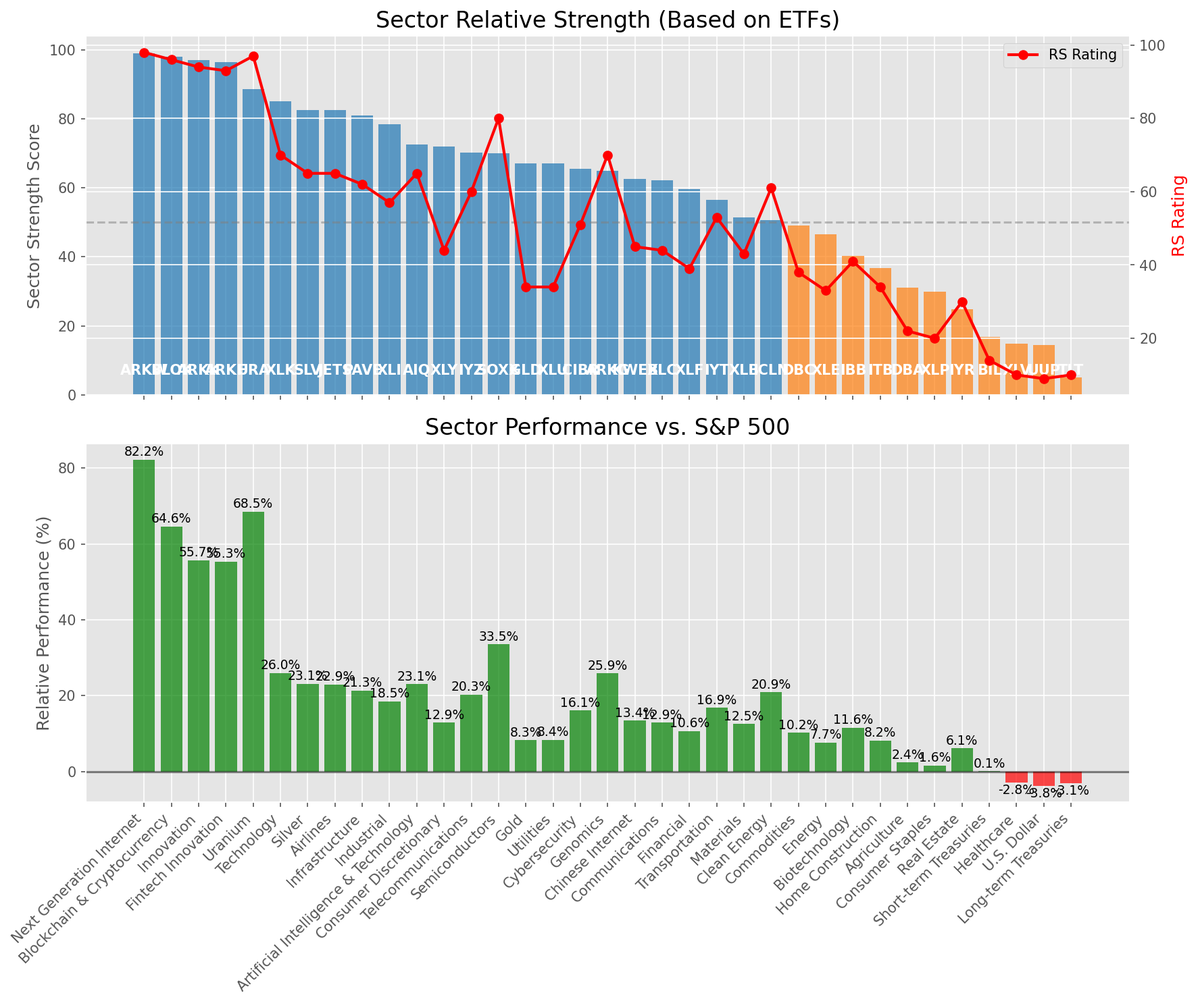
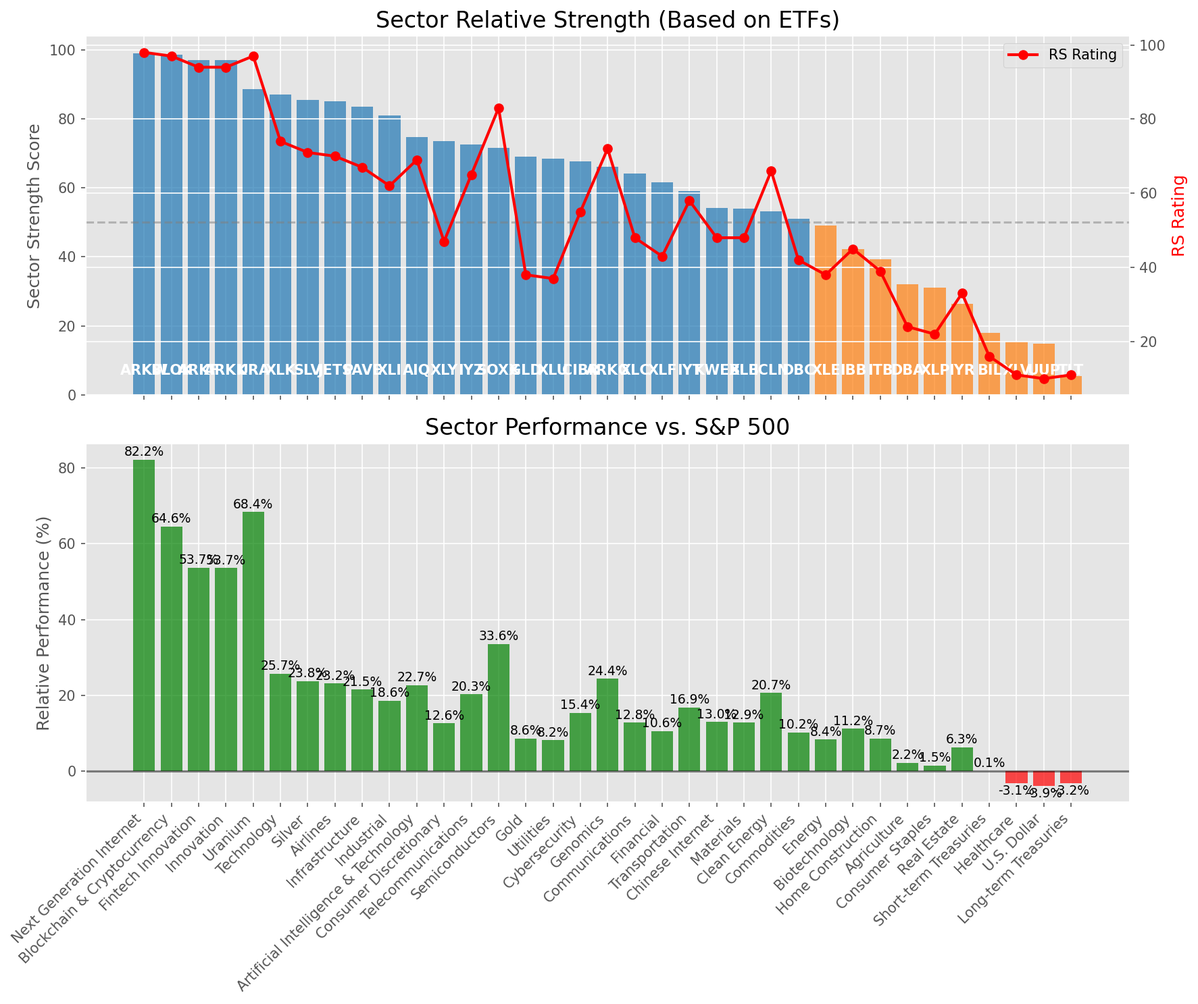
Add market report for 2025-07-11

diff --git a/oneil_relative_strength_report_2025-07-11.md b/oneil_relative_strength_report_2025-07-11.md
@@ -13,7 +13,7 @@
 | **Historical Mean** | 9.45 |
 | **Standard Deviation** | 0.52 |
 | **Z-Score (StdDev from Mean)** | 1.62 |
-| **Total Market Cap** | $307.15 trillion |
+| **Total Market Cap** | $307.03 trillion |
 | **GDP** | $29.96 trillion |
 
 ## **Market Insights**
@@ -50,40 +50,40 @@ Based on William O'Neil's Relative Strength Methodology
 | ETF | Strength | RS Rating | Performance | Above Key MAs | Trend | Sector |
 |-----|----------|-----------|-------------|--------------|-------|--------|
 | [ARKW](https://www.tradingview.com/chart/?symbol=ARKW) | 99.0 | 98.0 | 82.19% | 10d ✓, 50d ✓, 200d ✓ | ↗ | Next Generation Internet |
-| [BLOK](https://www.tradingview.com/chart/?symbol=BLOK) | 98.0 | 96.0 | 64.59% | 10d ✓, 50d ✓, 200d ✓ | ↗ | Blockchain & Cryptocurrency |
-| [ARKK](https://www.tradingview.com/chart/?symbol=ARKK) | 97.0 | 94.0 | 55.70% | 10d ✓, 50d ✓, 200d ✓ | ↗ | Innovation |
-| [ARKF](https://www.tradingview.com/chart/?symbol=ARKF) | 96.5 | 93.0 | 55.33% | 10d ✓, 50d ✓, 200d ✓ | ↗ | Fintech Innovation |
-| [URA](https://www.tradingview.com/chart/?symbol=URA) | 88.6 | 97.0 | 68.47% | 10d ✗, 50d ✓, 200d ✓ | ↗ | Uranium |
-| [XLK](https://www.tradingview.com/chart/?symbol=XLK) | 85.0 | 70.0 | 25.97% | 10d ✓, 50d ✓, 200d ✓ | ↗ | Technology |
-| [SLV](https://www.tradingview.com/chart/?symbol=SLV) | 82.5 | 65.0 | 23.09% | 10d ✓, 50d ✓, 200d ✓ | ↗ | Silver |
-| [JETS](https://www.tradingview.com/chart/?symbol=JETS) | 82.5 | 65.0 | 22.94% | 10d ✓, 50d ✓, 200d ✓ | ↗ | Airlines |
-| [PAVE](https://www.tradingview.com/chart/?symbol=PAVE) | 81.0 | 62.0 | 21.32% | 10d ✓, 50d ✓, 200d ✓ | ↗ | Infrastructure |
-| [XLI](https://www.tradingview.com/chart/?symbol=XLI) | 78.5 | 57.0 | 18.49% | 10d ✓, 50d ✓, 200d ✓ | ↗ | Industrial |
-| [AIQ](https://www.tradingview.com/chart/?symbol=AIQ) | 72.6 | 65.0 | 23.08% | 10d ✗, 50d ✓, 200d ✓ | ↗ | Artificial Intelligence & Technology |
-| [XLY](https://www.tradingview.com/chart/?symbol=XLY) | 72.0 | 44.0 | 12.87% | 10d ✓, 50d ✓, 200d ✓ | ↗ | Consumer Discretionary |
-| [IYZ](https://www.tradingview.com/chart/?symbol=IYZ) | 70.1 | 60.0 | 20.26% | 10d ✗, 50d ✓, 200d ✓ | ↗ | Telecommunications |
-| [SOXX](https://www.tradingview.com/chart/?symbol=SOXX) | 70.0 | 80.0 | 33.51% | 10d ✓, 50d ✓, 200d ✓ | ↘ | Semiconductors |
-| [GLD](https://www.tradingview.com/chart/?symbol=GLD) | 67.0 | 34.0 | 8.25% | 10d ✓, 50d ✓, 200d ✓ | ↗ | Gold |
-| [XLU](https://www.tradingview.com/chart/?symbol=XLU) | 67.0 | 34.0 | 8.35% | 10d ✓, 50d ✓, 200d ✓ | ↗ | Utilities |
-| [CIBR](https://www.tradingview.com/chart/?symbol=CIBR) | 65.6 | 51.0 | 16.06% | 10d ✗, 50d ✓, 200d ✓ | ↗ | Cybersecurity |
-| [ARKG](https://www.tradingview.com/chart/?symbol=ARKG) | 65.0 | 70.0 | 25.88% | 10d ✓, 50d ✓, 200d ✓ | ↘ | Genomics |
-| [KWEB](https://www.tradingview.com/chart/?symbol=KWEB) | 62.6 | 45.0 | 13.45% | 10d ✗, 50d ✓, 200d ✓ | ↗ | Chinese Internet |
-| [XLC](https://www.tradingview.com/chart/?symbol=XLC) | 62.1 | 44.0 | 12.92% | 10d ✗, 50d ✓, 200d ✓ | ↗ | Communications |
-| [XLF](https://www.tradingview.com/chart/?symbol=XLF) | 59.6 | 39.0 | 10.64% | 10d ✗, 50d ✓, 200d ✓ | ↗ | Financial |
-| [IYT](https://www.tradingview.com/chart/?symbol=IYT) | 56.5 | 53.0 | 16.85% | 10d ✓, 50d ✓, 200d ✓ | ↘ | Transportation |
-| [XLB](https://www.tradingview.com/chart/?symbol=XLB) | 51.5 | 43.0 | 12.51% | 10d ✓, 50d ✓, 200d ✓ | ↘ | Materials |
-| [ICLN](https://www.tradingview.com/chart/?symbol=ICLN) | 50.6 | 61.0 | 20.92% | 10d ✗, 50d ✓, 200d ✓ | ↘ | Clean Energy |
-| [DBC](https://www.tradingview.com/chart/?symbol=DBC) | 49.0 | 38.0 | 10.22% | 10d ✓, 50d ✓, 200d ✓ | ↘ | Commodities |
-| [XLE](https://www.tradingview.com/chart/?symbol=XLE) | 46.5 | 33.0 | 7.67% | 10d ✓, 50d ✓, 200d ✓ | ↘ | Energy |
-| [IBB](https://www.tradingview.com/chart/?symbol=IBB) | 40.3 | 41.0 | 11.58% | 10d ✓, 50d ✓, 200d ✗ | ↘ | Biotechnology |
-| [ITB](https://www.tradingview.com/chart/?symbol=ITB) | 36.8 | 34.0 | 8.18% | 10d ✓, 50d ✓, 200d ✗ | ↘ | Home Construction |
-| [DBA](https://www.tradingview.com/chart/?symbol=DBA) | 31.0 | 22.0 | 2.37% | 10d ✗, 50d ✗, 200d ✗ | ↗ | Agriculture |
-| [XLP](https://www.tradingview.com/chart/?symbol=XLP) | 30.0 | 20.0 | 1.61% | 10d ✗, 50d ✗, 200d ✗ | ↗ | Consumer Staples |
-| [IYR](https://www.tradingview.com/chart/?symbol=IYR) | 24.9 | 30.0 | 6.11% | 10d ✗, 50d ✓, 200d ✗ | ↘ | Real Estate |
-| [BIL](https://www.tradingview.com/chart/?symbol=BIL) | 16.9 | 14.0 | 0.05% | 10d ✓, 50d ✗, 200d ✗ | ↘ | Short-term Treasuries |
-| [XLV](https://www.tradingview.com/chart/?symbol=XLV) | 14.9 | 10.0 | -2.83% | 10d ✗, 50d ✓, 200d ✗ | ↘ | Healthcare |
-| [UUP](https://www.tradingview.com/chart/?symbol=UUP) | 14.4 | 9.0 | -3.78% | 10d ✓, 50d ✗, 200d ✗ | ↘ | U.S. Dollar |
-| [TLT](https://www.tradingview.com/chart/?symbol=TLT) | 5.0 | 10.0 | -3.14% | 10d ✗, 50d ✗, 200d ✗ | ↘ | Long-term Treasuries |
+| [BLOK](https://www.tradingview.com/chart/?symbol=BLOK) | 98.5 | 97.0 | 64.59% | 10d ✓, 50d ✓, 200d ✓ | ↗ | Blockchain & Cryptocurrency |
+| [ARKF](https://www.tradingview.com/chart/?symbol=ARKF) | 97.0 | 94.0 | 53.74% | 10d ✓, 50d ✓, 200d ✓ | ↗ | Fintech Innovation |
+| [ARKK](https://www.tradingview.com/chart/?symbol=ARKK) | 97.0 | 94.0 | 53.65% | 10d ✓, 50d ✓, 200d ✓ | ↗ | Innovation |
+| [URA](https://www.tradingview.com/chart/?symbol=URA) | 88.6 | 97.0 | 68.40% | 10d ✗, 50d ✓, 200d ✓ | ↗ | Uranium |
+| [XLK](https://www.tradingview.com/chart/?symbol=XLK) | 87.0 | 74.0 | 25.73% | 10d ✓, 50d ✓, 200d ✓ | ↗ | Technology |
+| [SLV](https://www.tradingview.com/chart/?symbol=SLV) | 85.5 | 71.0 | 23.81% | 10d ✓, 50d ✓, 200d ✓ | ↗ | Silver |
+| [JETS](https://www.tradingview.com/chart/?symbol=JETS) | 85.0 | 70.0 | 23.18% | 10d ✓, 50d ✓, 200d ✓ | ↗ | Airlines |
+| [PAVE](https://www.tradingview.com/chart/?symbol=PAVE) | 83.5 | 67.0 | 21.54% | 10d ✓, 50d ✓, 200d ✓ | ↗ | Infrastructure |
+| [XLI](https://www.tradingview.com/chart/?symbol=XLI) | 81.0 | 62.0 | 18.59% | 10d ✓, 50d ✓, 200d ✓ | ↗ | Industrial |
+| [AIQ](https://www.tradingview.com/chart/?symbol=AIQ) | 74.6 | 69.0 | 22.70% | 10d ✗, 50d ✓, 200d ✓ | ↗ | Artificial Intelligence & Technology |
+| [XLY](https://www.tradingview.com/chart/?symbol=XLY) | 73.5 | 47.0 | 12.64% | 10d ✓, 50d ✓, 200d ✓ | ↗ | Consumer Discretionary |
+| [IYZ](https://www.tradingview.com/chart/?symbol=IYZ) | 72.6 | 65.0 | 20.26% | 10d ✗, 50d ✓, 200d ✓ | ↗ | Telecommunications |
+| [SOXX](https://www.tradingview.com/chart/?symbol=SOXX) | 71.5 | 83.0 | 33.60% | 10d ✓, 50d ✓, 200d ✓ | ↘ | Semiconductors |
+| [GLD](https://www.tradingview.com/chart/?symbol=GLD) | 69.0 | 38.0 | 8.61% | 10d ✓, 50d ✓, 200d ✓ | ↗ | Gold |
+| [XLU](https://www.tradingview.com/chart/?symbol=XLU) | 68.5 | 37.0 | 8.16% | 10d ✓, 50d ✓, 200d ✓ | ↗ | Utilities |
+| [CIBR](https://www.tradingview.com/chart/?symbol=CIBR) | 67.6 | 55.0 | 15.39% | 10d ✗, 50d ✓, 200d ✓ | ↗ | Cybersecurity |
+| [ARKG](https://www.tradingview.com/chart/?symbol=ARKG) | 66.0 | 72.0 | 24.37% | 10d ✓, 50d ✓, 200d ✓ | ↘ | Genomics |
+| [XLC](https://www.tradingview.com/chart/?symbol=XLC) | 64.1 | 48.0 | 12.79% | 10d ✗, 50d ✓, 200d ✓ | ↗ | Communications |
+| [XLF](https://www.tradingview.com/chart/?symbol=XLF) | 61.6 | 43.0 | 10.62% | 10d ✗, 50d ✓, 200d ✓ | ↗ | Financial |
+| [IYT](https://www.tradingview.com/chart/?symbol=IYT) | 59.0 | 58.0 | 16.85% | 10d ✓, 50d ✓, 200d ✓ | ↘ | Transportation |
+| [KWEB](https://www.tradingview.com/chart/?symbol=KWEB) | 54.2 | 48.0 | 12.98% | 10d ✗, 50d ✗, 200d ✓ | ↗ | Chinese Internet |
+| [XLB](https://www.tradingview.com/chart/?symbol=XLB) | 54.0 | 48.0 | 12.85% | 10d ✓, 50d ✓, 200d ✓ | ↘ | Materials |
+| [ICLN](https://www.tradingview.com/chart/?symbol=ICLN) | 53.1 | 66.0 | 20.69% | 10d ✗, 50d ✓, 200d ✓ | ↘ | Clean Energy |
+| [DBC](https://www.tradingview.com/chart/?symbol=DBC) | 51.0 | 42.0 | 10.22% | 10d ✓, 50d ✓, 200d ✓ | ↘ | Commodities |
+| [XLE](https://www.tradingview.com/chart/?symbol=XLE) | 49.0 | 38.0 | 8.37% | 10d ✓, 50d ✓, 200d ✓ | ↘ | Energy |
+| [IBB](https://www.tradingview.com/chart/?symbol=IBB) | 42.3 | 45.0 | 11.18% | 10d ✓, 50d ✓, 200d ✗ | ↘ | Biotechnology |
+| [ITB](https://www.tradingview.com/chart/?symbol=ITB) | 39.3 | 39.0 | 8.66% | 10d ✓, 50d ✓, 200d ✗ | ↘ | Home Construction |
+| [DBA](https://www.tradingview.com/chart/?symbol=DBA) | 32.0 | 24.0 | 2.18% | 10d ✗, 50d ✗, 200d ✗ | ↗ | Agriculture |
+| [XLP](https://www.tradingview.com/chart/?symbol=XLP) | 31.0 | 22.0 | 1.53% | 10d ✗, 50d ✗, 200d ✗ | ↗ | Consumer Staples |
+| [IYR](https://www.tradingview.com/chart/?symbol=IYR) | 26.4 | 33.0 | 6.29% | 10d ✗, 50d ✓, 200d ✗ | ↘ | Real Estate |
+| [BIL](https://www.tradingview.com/chart/?symbol=BIL) | 17.9 | 16.0 | 0.06% | 10d ✓, 50d ✗, 200d ✗ | ↘ | Short-term Treasuries |
+| [XLV](https://www.tradingview.com/chart/?symbol=XLV) | 15.4 | 11.0 | -3.09% | 10d ✗, 50d ✓, 200d ✗ | ↘ | Healthcare |
+| [UUP](https://www.tradingview.com/chart/?symbol=UUP) | 14.9 | 10.0 | -3.88% | 10d ✓, 50d ✗, 200d ✗ | ↘ | U.S. Dollar |
+| [TLT](https://www.tradingview.com/chart/?symbol=TLT) | 5.5 | 11.0 | -3.20% | 10d ✗, 50d ✗, 200d ✗ | ↘ | Long-term Treasuries |
 
 ### **Sector ETF Performance Interpretation**
 
@@ -98,7 +98,7 @@ This table shows the relative strength metrics for different market sectors base
 
 ### **Current Sector Leadership**
 
-The current market leadership is coming from the following sectors: **Next Generation Internet, Blockchain & Cryptocurrency, Innovation**.
+The current market leadership is coming from the following sectors: **Next Generation Internet, Blockchain & Cryptocurrency, Fintech Innovation**.
 
 The **Next Generation Internet** sector (represented by **ARKW**) is showing particularly strong relative strength with an RS rating of 98.0 and performance of 82.19% vs. the S&P 500. This sector is trading above its 10-day, 50-day, 200-day moving average(s). Investors should consider focusing on high RS stocks within these leading sectors for potential outperformance.
 
@@ -106,161 +106,165 @@ The **Next Generation Internet** sector (represented by **ARKW**) is showing par
 
 ## **Buy Recommendations**
 
-The following 42 stocks show exceptional relative strength:
+The following 41 stocks show exceptional relative strength:
 
 | RS Rating | Buy Score | Current Price | Chart | Name | Ticker |
 |-----------|-----------|---------------|-------|------|--------|
-| 100 | 100 | $202.83 | [Chart](https://www.tradingview.com/chart/?symbol=LEU) | Centrus Energy Corp. | LEU |
-| 100 | 100 | $101.12 | [Chart](https://www.tradingview.com/chart/?symbol=HOOD) | Robinhood Markets, Inc. Class A Common Stock | HOOD |
+| 100 | 100 | $199.31 | [Chart](https://www.tradingview.com/chart/?symbol=LEU) | Centrus Energy Corp. | LEU |
+| 100 | 100 | $100.24 | [Chart](https://www.tradingview.com/chart/?symbol=HOOD) | Robinhood Markets, Inc. Class A Common Stock | HOOD |
 | 100 | 100 | $149.22 | [Chart](https://www.tradingview.com/chart/?symbol=LMB) | Limbach Holdings, Inc Common Stock | LMB |
-| 99 | 100 | $107.45 | [Chart](https://www.tradingview.com/chart/?symbol=RBLX) | Roblox Corporation | RBLX |
-| 99 | 100 | $48.31 | [Chart](https://www.tradingview.com/chart/?symbol=MP) | MP Materials Corp. | MP |
-| 99 | 100 | $43.98 | [Chart](https://www.tradingview.com/chart/?symbol=FARO) | Faro Technologies Inc | FARO |
-| 98 | 100 | $104.82 | [Chart](https://www.tradingview.com/chart/?symbol=VRNA) | Verona Pharma plc | VRNA |
-| 98 | 100 | $146.24 | [Chart](https://www.tradingview.com/chart/?symbol=FUTU) | Futu Holdings Limited American Depositary Shares | FUTU |
+| 99 | 100 | $46.16 | [Chart](https://www.tradingview.com/chart/?symbol=MP) | MP Materials Corp. | MP |
+| 99 | 100 | $106.97 | [Chart](https://www.tradingview.com/chart/?symbol=RBLX) | Roblox Corporation | RBLX |
+| 99 | 100 | $146.93 | [Chart](https://www.tradingview.com/chart/?symbol=FUTU) | Futu Holdings Limited American Depositary Shares | FUTU |
+| 99 | 100 | $43.95 | [Chart](https://www.tradingview.com/chart/?symbol=FARO) | Faro Technologies Inc | FARO |
+| 98 | 100 | $104.83 | [Chart](https://www.tradingview.com/chart/?symbol=VRNA) | Verona Pharma plc | VRNA |
 | 97 | 100 | $49.22 | [Chart](https://www.tradingview.com/chart/?symbol=REVG) | REV Group, Inc. | REVG |
-| 96 | 100 | $545.30 | [Chart](https://www.tradingview.com/chart/?symbol=GEV) | GE Vernova Inc. | GEV |
-| 95 | 100 | $34.60 | [Chart](https://www.tradingview.com/chart/?symbol=APG) | APi Group Corporation | APG |
-| 95 | 100 | $51.22 | [Chart](https://www.tradingview.com/chart/?symbol=KTOS) | Kratos Defense & Security Solutions, Inc. | KTOS |
-| 95 | 100 | $289.87 | [Chart](https://www.tradingview.com/chart/?symbol=RL) | Ralph Lauren Corporation | RL |
-| 95 | 100 | $350.41 | [Chart](https://www.tradingview.com/chart/?symbol=CVNA) | Carvana Co. | CVNA |
-| 94 | 100 | $35.96 | [Chart](https://www.tradingview.com/chart/?symbol=ATAT) | Atour Lifestyle Holdings Limited American Depositary Shares | ATAT |
-| 94 | 100 | $22.05 | [Chart](https://www.tradingview.com/chart/?symbol=MAG) | MAG Silver Corp. | MAG |
-| 94 | 100 | $143.87 | [Chart](https://www.tradingview.com/chart/?symbol=PLTR) | Palantir Technologies Inc. Class A Common Stock | PLTR |
-| 93 | 100 | $51.77 | [Chart](https://www.tradingview.com/chart/?symbol=ARKF) | ARK Fintech Innovation ETF | ARKF |
-| 93 | 100 | $35.07 | [Chart](https://www.tradingview.com/chart/?symbol=ATRO) | Astronics Corp | ATRO |
-| 91 | 100 | $104.34 | [Chart](https://www.tradingview.com/chart/?symbol=SANM) | Sanmina  Corp | SANM |
-| 91 | 100 | $88.40 | [Chart](https://www.tradingview.com/chart/?symbol=RYTM) | Rhythm Pharmaceuticals, Inc. Common Stock | RYTM |
-| 91 | 100 | $46.24 | [Chart](https://www.tradingview.com/chart/?symbol=DRS) | Leonardo DRS, Inc. Common Stock | DRS |
-| 90 | 100 | $29.38 | [Chart](https://www.tradingview.com/chart/?symbol=NTGR) | NETGEAR, Inc. | NTGR |
-| 90 | 100 | $97.72 | [Chart](https://www.tradingview.com/chart/?symbol=TPR) | Tapestry, Inc. Common Stock | TPR |
-| 89 | 100 | $25.47 | [Chart](https://www.tradingview.com/chart/?symbol=KAR) | OPENLANE, Inc | KAR |
-| 86 | 100 | $29.17 | [Chart](https://www.tradingview.com/chart/?symbol=SRAD) | Sportradar Group AG Class A Ordinary Shares | SRAD |
-| 88 | 99 | $52.27 | [Chart](https://www.tradingview.com/chart/?symbol=BTC) | Grayscale Bitcoin Mini Trust ETF | BTC |
-| 89 | 98 | $35.87 | [Chart](https://www.tradingview.com/chart/?symbol=NNE) | Nano Nuclear Energy Inc. Common Stock | NNE |
-| 88 | 98 | $67.04 | [Chart](https://www.tradingview.com/chart/?symbol=IBIT) | iShares Bitcoin Trust ETF | IBIT |
-| 85 | 98 | $29.24 | [Chart](https://www.tradingview.com/chart/?symbol=CAE) | CAE INC | CAE |
-| 84 | 98 | $96.35 | [Chart](https://www.tradingview.com/chart/?symbol=SNEX) | StoneX Group Inc. Common Stock | SNEX |
-| 87 | 97 | $258.16 | [Chart](https://www.tradingview.com/chart/?symbol=WTS) | Watts Water Technologies, Inc. Class A | WTS |
-| 86 | 97 | $46.23 | [Chart](https://www.tradingview.com/chart/?symbol=BBIO) | BridgeBio Pharma, Inc. Common Stock | BBIO |
-| 86 | 96 | $52.02 | [Chart](https://www.tradingview.com/chart/?symbol=INOD) | Innodata Inc. | INOD |
-| 85 | 96 | $59.49 | [Chart](https://www.tradingview.com/chart/?symbol=IBKR) | Interactive Brokers Group, Inc. Class A Common Stock | IBKR |
-| 85 | 95 | $25.03 | [Chart](https://www.tradingview.com/chart/?symbol=PUK) | PRUDENTIAL PLC ADS (REP 2 ORD SHARES) | PUK |
-| 84 | 95 | $5718.51 | [Chart](https://www.tradingview.com/chart/?symbol=BKNG) | Booking Holdings Inc. Common Stock | BKNG |
-| 84 | 94 | $59.78 | [Chart](https://www.tradingview.com/chart/?symbol=EPR) | EPR Properties | EPR |
-| 83 | 94 | $255.90 | [Chart](https://www.tradingview.com/chart/?symbol=GE) | GE Aerospace | GE |
-| 81 | 94 | $44.05 | [Chart](https://www.tradingview.com/chart/?symbol=VIRT) | Virtu Financial, Inc. Class A | VIRT |
-| 81 | 93 | $27.34 | [Chart](https://www.tradingview.com/chart/?symbol=OR) | OR Royalties Inc. | OR |
-| 82 | 91 | $50.24 | [Chart](https://www.tradingview.com/chart/?symbol=SIL) | Global X Silver Miners ETF (NEW) | SIL |
+| 97 | 100 | $542.89 | [Chart](https://www.tradingview.com/chart/?symbol=GEV) | GE Vernova Inc. | GEV |
+| 96 | 100 | $22.24 | [Chart](https://www.tradingview.com/chart/?symbol=MAG) | MAG Silver Corp. | MAG |
+| 96 | 100 | $51.88 | [Chart](https://www.tradingview.com/chart/?symbol=KTOS) | Kratos Defense & Security Solutions, Inc. | KTOS |
+| 95 | 100 | $142.23 | [Chart](https://www.tradingview.com/chart/?symbol=PLTR) | Palantir Technologies Inc. Class A Common Stock | PLTR |
+| 95 | 100 | $348.70 | [Chart](https://www.tradingview.com/chart/?symbol=CVNA) | Carvana Co. | CVNA |
+| 94 | 100 | $35.28 | [Chart](https://www.tradingview.com/chart/?symbol=ATAT) | Atour Lifestyle Holdings Limited American Depositary Shares | ATAT |
+| 94 | 100 | $215.10 | [Chart](https://www.tradingview.com/chart/?symbol=AGX) | Argan, Inc | AGX |
+| 94 | 100 | $51.24 | [Chart](https://www.tradingview.com/chart/?symbol=ARKF) | ARK Fintech Innovation ETF | ARKF |
+| 94 | 100 | $35.22 | [Chart](https://www.tradingview.com/chart/?symbol=ATRO) | Astronics Corp | ATRO |
+| 92 | 100 | $34.65 | [Chart](https://www.tradingview.com/chart/?symbol=APG) | APi Group Corporation | APG |
+| 92 | 100 | $88.62 | [Chart](https://www.tradingview.com/chart/?symbol=RYTM) | Rhythm Pharmaceuticals, Inc. Common Stock | RYTM |
+| 91 | 100 | $97.53 | [Chart](https://www.tradingview.com/chart/?symbol=TPR) | Tapestry, Inc. Common Stock | TPR |
+| 91 | 100 | $29.38 | [Chart](https://www.tradingview.com/chart/?symbol=NTGR) | NETGEAR, Inc. | NTGR |
+| 90 | 100 | $66.94 | [Chart](https://www.tradingview.com/chart/?symbol=IBIT) | iShares Bitcoin Trust ETF | IBIT |
+| 90 | 100 | $52.20 | [Chart](https://www.tradingview.com/chart/?symbol=BTC) | Grayscale Bitcoin Mini Trust ETF | BTC |
+| 87 | 100 | $29.24 | [Chart](https://www.tradingview.com/chart/?symbol=CAE) | CAE INC | CAE |
+| 86 | 100 | $96.35 | [Chart](https://www.tradingview.com/chart/?symbol=SNEX) | StoneX Group Inc. Common Stock | SNEX |
+| 89 | 99 | $258.16 | [Chart](https://www.tradingview.com/chart/?symbol=WTS) | Watts Water Technologies, Inc. Class A | WTS |
+| 88 | 99 | $46.24 | [Chart](https://www.tradingview.com/chart/?symbol=BBIO) | BridgeBio Pharma, Inc. Common Stock | BBIO |
+| 89 | 98 | $34.95 | [Chart](https://www.tradingview.com/chart/?symbol=NNE) | Nano Nuclear Energy Inc. Common Stock | NNE |
+| 87 | 98 | $59.13 | [Chart](https://www.tradingview.com/chart/?symbol=IBKR) | Interactive Brokers Group, Inc. Class A Common Stock | IBKR |
+| 86 | 98 | $47.32 | [Chart](https://www.tradingview.com/chart/?symbol=DRS) | Leonardo DRS, Inc. Common Stock | DRS |
+| 86 | 97 | $5718.51 | [Chart](https://www.tradingview.com/chart/?symbol=BKNG) | Booking Holdings Inc. Common Stock | BKNG |
+| 85 | 96 | $255.35 | [Chart](https://www.tradingview.com/chart/?symbol=GE) | GE Aerospace | GE |
+| 84 | 96 | $27.55 | [Chart](https://www.tradingview.com/chart/?symbol=OR) | OR Royalties Inc. | OR |
+| 83 | 96 | $29.55 | [Chart](https://www.tradingview.com/chart/?symbol=DB) | Deutsche Bank Aktiengesellschaft | DB |
+| 86 | 95 | $50.65 | [Chart](https://www.tradingview.com/chart/?symbol=SIL) | Global X Silver Miners ETF (NEW) | SIL |
+| 85 | 94 | $50.45 | [Chart](https://www.tradingview.com/chart/?symbol=INOD) | Innodata Inc. | INOD |
+| 81 | 94 | $18.44 | [Chart](https://www.tradingview.com/chart/?symbol=BCS) | Barclays PLC | BCS |
+| 82 | 93 | $25.10 | [Chart](https://www.tradingview.com/chart/?symbol=KAR) | OPENLANE, Inc | KAR |
+| 80 | 92 | $48.53 | [Chart](https://www.tradingview.com/chart/?symbol=EWI) | iShares MSCI Italy ETF | EWI |
+| 81 | 91 | $110.14 | [Chart](https://www.tradingview.com/chart/?symbol=PSMT) | Pricesmart Inc | PSMT |
 
 ---
 
 
 ## **Sell Recommendations**
 
-The following 99 stocks show deteriorating relative strength:
+The following 104 stocks show deteriorating relative strength:
 
 | RS Rating | Sell Score | Current Price | Chart | Name | Ticker |
 |-----------|------------|---------------|-------|------|--------|
-| 1 | 100 | $22.64 | [Chart](https://www.tradingview.com/chart/?symbol=ZSL) | ProShares UltraShort Silver | ZSL |
-| 1 | 100 | $221.52 | [Chart](https://www.tradingview.com/chart/?symbol=MOH) | Molina Healthcare, Inc. | MOH |
-| 1 | 100 | $25.68 | [Chart](https://www.tradingview.com/chart/?symbol=TECS) | Direxion Daily Technology Bear 3x Shares | TECS |
+| 1 | 100 | $12.54 | [Chart](https://www.tradingview.com/chart/?symbol=IART) | Integra LifeSciences Holdings | IART |
+| 1 | 100 | $25.83 | [Chart](https://www.tradingview.com/chart/?symbol=TECS) | Direxion Daily Technology Bear 3x Shares | TECS |
 | 1 | 100 | $34.10 | [Chart](https://www.tradingview.com/chart/?symbol=SARK) | Investment Managers Series Trust II Tradr 1X Short Innovation Daily ETF | SARK |
-| 2 | 100 | $40.73 | [Chart](https://www.tradingview.com/chart/?symbol=SDOW) | ProShares UltraPro Short Dow 30 | SDOW |
-| 2 | 100 | $25.12 | [Chart](https://www.tradingview.com/chart/?symbol=QID) | ProShares UltraShort QQQ | QID |
-| 2 | 100 | $17.91 | [Chart](https://www.tradingview.com/chart/?symbol=BITI) | ProShares Short Bitcoin ETF | BITI |
-| 2 | 100 | $16.41 | [Chart](https://www.tradingview.com/chart/?symbol=SDS) | ProShares UltraShort S&P500 | SDS |
-| 2 | 100 | $23.64 | [Chart](https://www.tradingview.com/chart/?symbol=DXD) | ProShares UltraShort Dow 30 | DXD |
-| 2 | 100 | $20.79 | [Chart](https://www.tradingview.com/chart/?symbol=ERY) | Direxion Daily Energy Bear 2X Shares | ERY |
+| 1 | 100 | $221.06 | [Chart](https://www.tradingview.com/chart/?symbol=MOH) | Molina Healthcare, Inc. | MOH |
+| 2 | 100 | $25.22 | [Chart](https://www.tradingview.com/chart/?symbol=QID) | ProShares UltraShort QQQ | QID |
+| 2 | 100 | $40.83 | [Chart](https://www.tradingview.com/chart/?symbol=SDOW) | ProShares UltraPro Short Dow 30 | SDOW |
 | 2 | 100 | $10.25 | [Chart](https://www.tradingview.com/chart/?symbol=SNDX) | Syndax Pharmaceuticals, Inc. | SNDX |
-| 2 | 100 | $13.17 | [Chart](https://www.tradingview.com/chart/?symbol=IART) | Integra LifeSciences Holdings | IART |
-| 3 | 100 | $33.56 | [Chart](https://www.tradingview.com/chart/?symbol=PSQ) | ProShares Short QQQ | PSQ |
-| 3 | 100 | $16.18 | [Chart](https://www.tradingview.com/chart/?symbol=COLD) | Americold Realty Trust, Inc. | COLD |
-| 3 | 100 | $17.18 | [Chart](https://www.tradingview.com/chart/?symbol=HP) | Helmerich & Payne, Inc. | HP |
-| 3 | 100 | $228.93 | [Chart](https://www.tradingview.com/chart/?symbol=HUM) | Humana Inc. | HUM |
-| 4 | 100 | $37.31 | [Chart](https://www.tradingview.com/chart/?symbol=IBTA) | Ibotta, Inc. | IBTA |
-| 4 | 100 | $24.26 | [Chart](https://www.tradingview.com/chart/?symbol=CRTO) | Criteo S.A. | CRTO |
-| 4 | 100 | $39.42 | [Chart](https://www.tradingview.com/chart/?symbol=SH) | ProShares Short S&P500 | SH |
-| 4 | 100 | $43.07 | [Chart](https://www.tradingview.com/chart/?symbol=LINE) | Lineage, Inc. Common Stock | LINE |
+| 2 | 100 | $16.44 | [Chart](https://www.tradingview.com/chart/?symbol=SDS) | ProShares UltraShort S&P500 | SDS |
+| 2 | 100 | $17.93 | [Chart](https://www.tradingview.com/chart/?symbol=BITI) | ProShares Short Bitcoin ETF | BITI |
+| 2 | 100 | $20.79 | [Chart](https://www.tradingview.com/chart/?symbol=ERY) | Direxion Daily Energy Bear 2X Shares | ERY |
+| 3 | 100 | $42.77 | [Chart](https://www.tradingview.com/chart/?symbol=LINE) | Lineage, Inc. Common Stock | LINE |
+| 3 | 100 | $81.45 | [Chart](https://www.tradingview.com/chart/?symbol=LNTH) | Lantheus Holdings, Inc | LNTH |
+| 3 | 100 | $228.61 | [Chart](https://www.tradingview.com/chart/?symbol=HUM) | Humana Inc. | HUM |
+| 3 | 100 | $10.74 | [Chart](https://www.tradingview.com/chart/?symbol=SONO) | Sonos, Inc. Common Stock | SONO |
+| 4 | 100 | $24.00 | [Chart](https://www.tradingview.com/chart/?symbol=DXD) | ProShares UltraShort Dow 30 | DXD |
+| 4 | 100 | $33.62 | [Chart](https://www.tradingview.com/chart/?symbol=PSQ) | ProShares Short QQQ | PSQ |
+| 4 | 100 | $16.30 | [Chart](https://www.tradingview.com/chart/?symbol=COLD) | Americold Realty Trust, Inc. | COLD |
+| 4 | 100 | $32.32 | [Chart](https://www.tradingview.com/chart/?symbol=CRI) | Carter's Inc. | CRI |
+| 4 | 100 | $10.20 | [Chart](https://www.tradingview.com/chart/?symbol=LBTYK) | Liberty Global Ltd. Class C Common Shares | LBTYK |
 | 4 | 100 | $12.46 | [Chart](https://www.tradingview.com/chart/?symbol=CCRN) | Cross Country Healthcare Inc | CCRN |
 | 4 | 100 | $60.30 | [Chart](https://www.tradingview.com/chart/?symbol=STC) | Stewart Information Services Corporation | STC |
-| 4 | 100 | $10.82 | [Chart](https://www.tradingview.com/chart/?symbol=SD) | SandRidge Energy, Inc. | SD |
-| 5 | 100 | $103.75 | [Chart](https://www.tradingview.com/chart/?symbol=DECK) | Deckers Outdoor Corp | DECK |
-| 5 | 100 | $15.81 | [Chart](https://www.tradingview.com/chart/?symbol=TNDM) | Tandem Diabetes Care, Inc. | TNDM |
-| 5 | 100 | $17.28 | [Chart](https://www.tradingview.com/chart/?symbol=NOMD) | Nomad Foods Limited | NOMD |
-| 5 | 100 | $10.52 | [Chart](https://www.tradingview.com/chart/?symbol=LBTYK) | Liberty Global Ltd. Class C Common Shares | LBTYK |
-| 5 | 100 | $22.16 | [Chart](https://www.tradingview.com/chart/?symbol=GPK) | Graphic Packaging Holding Company | GPK |
-| 6 | 100 | $10.23 | [Chart](https://www.tradingview.com/chart/?symbol=LBTYA) | Liberty Global Ltd. Class A Common Shares | LBTYA |
-| 6 | 100 | $25.36 | [Chart](https://www.tradingview.com/chart/?symbol=DOG) | ProShares Short Dow30 | DOG |
-| 6 | 100 | $38.56 | [Chart](https://www.tradingview.com/chart/?symbol=LKQ) | LKQ Corporation | LKQ |
-| 6 | 100 | $50.55 | [Chart](https://www.tradingview.com/chart/?symbol=LW) | Lamb Weston Holdings, Inc. | LW |
+| 5 | 100 | $101.97 | [Chart](https://www.tradingview.com/chart/?symbol=DECK) | Deckers Outdoor Corp | DECK |
+| 5 | 100 | $39.45 | [Chart](https://www.tradingview.com/chart/?symbol=SH) | ProShares Short S&P500 | SH |
+| 5 | 100 | $10.82 | [Chart](https://www.tradingview.com/chart/?symbol=SD) | SandRidge Energy, Inc. | SD |
+| 5 | 100 | $15.67 | [Chart](https://www.tradingview.com/chart/?symbol=TNDM) | Tandem Diabetes Care, Inc. | TNDM |
+| 5 | 100 | $24.26 | [Chart](https://www.tradingview.com/chart/?symbol=CRTO) | Criteo S.A. | CRTO |
+| 5 | 100 | $37.31 | [Chart](https://www.tradingview.com/chart/?symbol=IBTA) | Ibotta, Inc. | IBTA |
+| 6 | 100 | $17.26 | [Chart](https://www.tradingview.com/chart/?symbol=NOMD) | Nomad Foods Limited | NOMD |
+| 6 | 100 | $49.91 | [Chart](https://www.tradingview.com/chart/?symbol=LW) | Lamb Weston Holdings, Inc. | LW |
+| 6 | 100 | $22.22 | [Chart](https://www.tradingview.com/chart/?symbol=GPK) | Graphic Packaging Holding Company | GPK |
+| 7 | 100 | $38.55 | [Chart](https://www.tradingview.com/chart/?symbol=LKQ) | LKQ Corporation | LKQ |
 | 7 | 100 | $65.13 | [Chart](https://www.tradingview.com/chart/?symbol=ZROZ) | PIMCO 25+ Year Zero Coupon U.S. Treasury Index Exchange-Traded Fund | ZROZ |
-| 8 | 100 | $17.82 | [Chart](https://www.tradingview.com/chart/?symbol=S) | SentinelOne, Inc. | S |
-| 8 | 100 | $10.39 | [Chart](https://www.tradingview.com/chart/?symbol=NMZ) | Nuveen Municipal High Income Opportunity Fund | NMZ |
-| 9 | 100 | $102.96 | [Chart](https://www.tradingview.com/chart/?symbol=DEO) | Diageo plc | DEO |
-| 9 | 100 | $130.22 | [Chart](https://www.tradingview.com/chart/?symbol=KMB) | Kimberly-Clark Corp. | KMB |
-| 10 | 100 | $86.08 | [Chart](https://www.tradingview.com/chart/?symbol=TLT) | iShares 20+ Year Treasury Bond ETF | TLT |
-| 12 | 100 | $27.24 | [Chart](https://www.tradingview.com/chart/?symbol=GTY) | Getty Realty Corp. | GTY |
-| 13 | 100 | $29.15 | [Chart](https://www.tradingview.com/chart/?symbol=SPTS) | SPDR Portfolio Short Term Treasury ETF | SPTS |
-| 15 | 100 | $32.31 | [Chart](https://www.tradingview.com/chart/?symbol=INVH) | Invitation Homes Inc. Common Stock | INVH |
-| 7 | 98 | $12.96 | [Chart](https://www.tradingview.com/chart/?symbol=GO) | Grocery Outlet Holding Corp. Common Stock | GO |
-| 7 | 98 | $12.65 | [Chart](https://www.tradingview.com/chart/?symbol=PMT) | PennyMac Mortgage Investment Trust | PMT |
-| 8 | 98 | $48.62 | [Chart](https://www.tradingview.com/chart/?symbol=SNY) | Sanofi American Depositary Shares (Each representing one-half of one ordinary share) | SNY |
-| 3 | 97 | $49.29 | [Chart](https://www.tradingview.com/chart/?symbol=TAP) | Molson Coors Beverage Company Class B | TAP |
-| 11 | 97 | $71.20 | [Chart](https://www.tradingview.com/chart/?symbol=TNET) | TRINET GROUP, INC. | TNET |
-| 15 | 97 | $41.47 | [Chart](https://www.tradingview.com/chart/?symbol=POR) | Portland General Electric Company | POR |
-| 10 | 96 | $54.84 | [Chart](https://www.tradingview.com/chart/?symbol=VGLT) | Vanguard Long-Term Treasury ETF | VGLT |
-| 10 | 96 | $21.72 | [Chart](https://www.tradingview.com/chart/?symbol=TUA) | Simplify Short Term Treasury Futures Strategy ETF | TUA |
-| 11 | 96 | $40.18 | [Chart](https://www.tradingview.com/chart/?symbol=UDR) | UDR, Inc. | UDR |
-| 12 | 96 | $89.31 | [Chart](https://www.tradingview.com/chart/?symbol=CL) | Colgate-Palmolive Company | CL |
-| 8 | 95 | $25.05 | [Chart](https://www.tradingview.com/chart/?symbol=DRV) | Direxion Daily Real Estate Bear 3X Shares | DRV |
-| 9 | 95 | $33.34 | [Chart](https://www.tradingview.com/chart/?symbol=KDP) | Keurig Dr Pepper Inc. | KDP |
-| 16 | 95 | $16.80 | [Chart](https://www.tradingview.com/chart/?symbol=MLN) | VanEck Long Muni ETF | MLN |
-| 13 | 94 | $66.44 | [Chart](https://www.tradingview.com/chart/?symbol=EQR) | Equity Residential | EQR |
-| 18 | 94 | $466.03 | [Chart](https://www.tradingview.com/chart/?symbol=LMT) | Lockheed Martin Corp. | LMT |
-| 12 | 93 | $139.25 | [Chart](https://www.tradingview.com/chart/?symbol=INSP) | Inspire Medical Systems, Inc. | INSP |
-| 16 | 93 | $14.77 | [Chart](https://www.tradingview.com/chart/?symbol=VRE) | Veris Residential, Inc. | VRE |
-| 14 | 92 | $82.44 | [Chart](https://www.tradingview.com/chart/?symbol=SHY) | iShares 1-3 Year Treasury Bond ETF | SHY |
-| 21 | 92 | $60.72 | [Chart](https://www.tradingview.com/chart/?symbol=UL) | Unilever plc | UL |
-| 10 | 90 | $11.43 | [Chart](https://www.tradingview.com/chart/?symbol=PTLO) | Portillo's Inc. Class A Common Stock | PTLO |
-| 18 | 90 | $25.81 | [Chart](https://www.tradingview.com/chart/?symbol=PNTG) | The Pennant Group, Inc. Common Stock | PNTG |
-| 18 | 89 | $47.14 | [Chart](https://www.tradingview.com/chart/?symbol=KBR) | KBR, Inc. | KBR |
-| 14 | 88 | $110.21 | [Chart](https://www.tradingview.com/chart/?symbol=SHV) | iShares Short Treasury Bond ETF | SHV |
-| 15 | 88 | $223.71 | [Chart](https://www.tradingview.com/chart/?symbol=LOW) | Lowe's Companies Inc. | LOW |
-| 19 | 87 | $13.28 | [Chart](https://www.tradingview.com/chart/?symbol=BSM) | Black Stone Minerals, L.P. | BSM |
-| 23 | 87 | $75.07 | [Chart](https://www.tradingview.com/chart/?symbol=IFF) | International Flavors & Fragrances Inc. | IFF |
-| 24 | 87 | $53.57 | [Chart](https://www.tradingview.com/chart/?symbol=CNMD) | CONMED Corporation | CNMD |
-| 14 | 86 | $58.49 | [Chart](https://www.tradingview.com/chart/?symbol=VGSH) | Vanguard Short-Term Treasury ETF | VGSH |
-| 25 | 86 | $86.41 | [Chart](https://www.tradingview.com/chart/?symbol=SIGI) | Selective Insurance Group | SIGI |
-| 21 | 85 | $35.76 | [Chart](https://www.tradingview.com/chart/?symbol=AMH) | AMERICAN HOMES 4 RENT | AMH |
-| 22 | 85 | $340.45 | [Chart](https://www.tradingview.com/chart/?symbol=EG) | Everest Group, Ltd. | EG |
-| 23 | 85 | $34.55 | [Chart](https://www.tradingview.com/chart/?symbol=PECO) | Phillips Edison & Company, Inc. Common Stock | PECO |
-| 31 | 85 | $17.74 | [Chart](https://www.tradingview.com/chart/?symbol=SVOL) | Simplify Volatility Premium ETF | SVOL |
-| 18 | 84 | $49.10 | [Chart](https://www.tradingview.com/chart/?symbol=BNDX) | Vanguard Total International Bond ETF | BNDX |
-| 22 | 84 | $78.41 | [Chart](https://www.tradingview.com/chart/?symbol=AKAM) | Akamai Technologies Inc | AKAM |
-| 22 | 83 | $25.37 | [Chart](https://www.tradingview.com/chart/?symbol=BRX) | BRIXMOR PROPERTY GROUP INC. | BRX |
-| 23 | 83 | $19.75 | [Chart](https://www.tradingview.com/chart/?symbol=SPT) | Sprout Social, Inc Class A Common Stock | SPT |
-| 23 | 83 | $25.53 | [Chart](https://www.tradingview.com/chart/?symbol=TBBB) | BBB Foods Inc. | TBBB |
-| 22 | 82 | $77.11 | [Chart](https://www.tradingview.com/chart/?symbol=AWR) | American States Water Company | AWR |
-| 23 | 82 | $345.36 | [Chart](https://www.tradingview.com/chart/?symbol=SHW) | The Sherwin-Williams Company | SHW |
-| 27 | 82 | $25.52 | [Chart](https://www.tradingview.com/chart/?symbol=HPQ) | HP Inc. | HPQ |
-| 28 | 81 | $14.02 | [Chart](https://www.tradingview.com/chart/?symbol=DOLE) | Dole plc | DOLE |
-| 22 | 80 | $40.38 | [Chart](https://www.tradingview.com/chart/?symbol=FE) | FirstEnergy Corp. | FE |
-| 21 | 79 | $26.60 | [Chart](https://www.tradingview.com/chart/?symbol=FCPT) | Four Corners Property Trust, Inc. | FCPT |
-| 28 | 76 | $41.33 | [Chart](https://www.tradingview.com/chart/?symbol=XLRE) | Real Estate Select Sector SPDR Fund | XLRE |
-| 28 | 75 | $89.13 | [Chart](https://www.tradingview.com/chart/?symbol=VNQ) | Vanguard Real Estate ETF | VNQ |
-| 36 | 75 | $16.02 | [Chart](https://www.tradingview.com/chart/?symbol=BNL) | Broadstone Net Lease, Inc. | BNL |
-| 33 | 74 | $559.90 | [Chart](https://www.tradingview.com/chart/?symbol=TYL) | Tyler Technologies, Inc. | TYL |
-| 35 | 74 | $22.27 | [Chart](https://www.tradingview.com/chart/?symbol=SGRY) | Surgery Partners, Inc. Common Stock | SGRY |
-| 28 | 73 | $238.44 | [Chart](https://www.tradingview.com/chart/?symbol=RNR) | RenaissanceRe Holdings Ltd. | RNR |
-| 31 | 71 | $113.41 | [Chart](https://www.tradingview.com/chart/?symbol=CPT) | Camden Property Trust | CPT |
-| 38 | 70 | $41.89 | [Chart](https://www.tradingview.com/chart/?symbol=CUBE) | CubeSmart | CUBE |
-| 38 | 70 | $149.88 | [Chart](https://www.tradingview.com/chart/?symbol=EA) | Electronic Arts Inc | EA |
-| 34 | 69 | $19.19 | [Chart](https://www.tradingview.com/chart/?symbol=MSDL) | Morgan Stanley Direct Lending Fund | MSDL |
-| 35 | 69 | $30.94 | [Chart](https://www.tradingview.com/chart/?symbol=AXTA) | Axalta Coating Systems Ltd. | AXTA |
-| 36 | 69 | $101.50 | [Chart](https://www.tradingview.com/chart/?symbol=FMX) | FOMENTO ECONOMICO MEXICANO, S.A.B. DE C.V. | FMX |
-| 37 | 66 | $79.27 | [Chart](https://www.tradingview.com/chart/?symbol=FIS) | Fidelity National Information Services, Inc. | FIS |
-| 36 | 65 | $67.23 | [Chart](https://www.tradingview.com/chart/?symbol=QSR) | Restaurant Brands International Inc. | QSR |
+| 7 | 100 | $25.38 | [Chart](https://www.tradingview.com/chart/?symbol=DOG) | ProShares Short Dow30 | DOG |
+| 7 | 100 | $46.67 | [Chart](https://www.tradingview.com/chart/?symbol=KBR) | KBR, Inc. | KBR |
+| 7 | 100 | $10.23 | [Chart](https://www.tradingview.com/chart/?symbol=LBTYA) | Liberty Global Ltd. Class A Common Shares | LBTYA |
+| 8 | 100 | $17.59 | [Chart](https://www.tradingview.com/chart/?symbol=S) | SentinelOne, Inc. | S |
+| 10 | 100 | $10.35 | [Chart](https://www.tradingview.com/chart/?symbol=NMZ) | Nuveen Municipal High Income Opportunity Fund | NMZ |
+| 10 | 100 | $130.10 | [Chart](https://www.tradingview.com/chart/?symbol=KMB) | Kimberly-Clark Corp. | KMB |
+| 11 | 100 | $86.03 | [Chart](https://www.tradingview.com/chart/?symbol=TLT) | iShares 20+ Year Treasury Bond ETF | TLT |
+| 14 | 100 | $27.24 | [Chart](https://www.tradingview.com/chart/?symbol=GTY) | Getty Realty Corp. | GTY |
+| 16 | 100 | $29.15 | [Chart](https://www.tradingview.com/chart/?symbol=SPTS) | SPDR Portfolio Short Term Treasury ETF | SPTS |
+| 10 | 99 | $102.95 | [Chart](https://www.tradingview.com/chart/?symbol=DEO) | Diageo plc | DEO |
+| 7 | 98 | $12.88 | [Chart](https://www.tradingview.com/chart/?symbol=GO) | Grocery Outlet Holding Corp. Common Stock | GO |
+| 9 | 98 | $24.96 | [Chart](https://www.tradingview.com/chart/?symbol=TBBB) | BBB Foods Inc. | TBBB |
+| 16 | 98 | $32.25 | [Chart](https://www.tradingview.com/chart/?symbol=INVH) | Invitation Homes Inc. Common Stock | INVH |
+| 3 | 97 | $49.38 | [Chart](https://www.tradingview.com/chart/?symbol=TAP) | Molson Coors Beverage Company Class B | TAP |
+| 10 | 97 | $30.51 | [Chart](https://www.tradingview.com/chart/?symbol=AXTA) | Axalta Coating Systems Ltd. | AXTA |
+| 9 | 96 | $12.68 | [Chart](https://www.tradingview.com/chart/?symbol=PMT) | PennyMac Mortgage Investment Trust | PMT |
+| 9 | 96 | $48.56 | [Chart](https://www.tradingview.com/chart/?symbol=SNY) | Sanofi American Depositary Shares (Each representing one-half of one ordinary share) | SNY |
+| 12 | 96 | $71.20 | [Chart](https://www.tradingview.com/chart/?symbol=TNET) | TRINET GROUP, INC. | TNET |
+| 13 | 96 | $21.65 | [Chart](https://www.tradingview.com/chart/?symbol=TUA) | Simplify Short Term Treasury Futures Strategy ETF | TUA |
+| 12 | 95 | $40.18 | [Chart](https://www.tradingview.com/chart/?symbol=UDR) | UDR, Inc. | UDR |
+| 17 | 95 | $41.47 | [Chart](https://www.tradingview.com/chart/?symbol=POR) | Portland General Electric Company | POR |
+| 8 | 94 | $19.91 | [Chart](https://www.tradingview.com/chart/?symbol=CON) | Concentra Group Holdings Parent, Inc. | CON |
+| 9 | 94 | $25.05 | [Chart](https://www.tradingview.com/chart/?symbol=DRV) | Direxion Daily Real Estate Bear 3X Shares | DRV |
+| 12 | 94 | $54.83 | [Chart](https://www.tradingview.com/chart/?symbol=VGLT) | Vanguard Long-Term Treasury ETF | VGLT |
+| 14 | 94 | $107.38 | [Chart](https://www.tradingview.com/chart/?symbol=BAH) | Booz Allen Hamilton Holding Corporation | BAH |
+| 10 | 93 | $33.35 | [Chart](https://www.tradingview.com/chart/?symbol=KDP) | Keurig Dr Pepper Inc. | KDP |
+| 14 | 93 | $89.66 | [Chart](https://www.tradingview.com/chart/?symbol=CL) | Colgate-Palmolive Company | CL |
+| 14 | 93 | $66.38 | [Chart](https://www.tradingview.com/chart/?symbol=EQR) | Equity Residential | EQR |
+| 18 | 93 | $16.80 | [Chart](https://www.tradingview.com/chart/?symbol=MLN) | VanEck Long Muni ETF | MLN |
+| 11 | 92 | $18.32 | [Chart](https://www.tradingview.com/chart/?symbol=AKR) | Acadia Realty Trust | AKR |
+| 13 | 92 | $139.25 | [Chart](https://www.tradingview.com/chart/?symbol=INSP) | Inspire Medical Systems, Inc. | INSP |
+| 20 | 92 | $465.48 | [Chart](https://www.tradingview.com/chart/?symbol=LMT) | Lockheed Martin Corp. | LMT |
+| 15 | 91 | $82.44 | [Chart](https://www.tradingview.com/chart/?symbol=SHY) | iShares 1-3 Year Treasury Bond ETF | SHY |
+| 18 | 91 | $14.77 | [Chart](https://www.tradingview.com/chart/?symbol=VRE) | Veris Residential, Inc. | VRE |
+| 24 | 89 | $60.67 | [Chart](https://www.tradingview.com/chart/?symbol=UL) | Unilever plc | UL |
+| 21 | 88 | $56.74 | [Chart](https://www.tradingview.com/chart/?symbol=DAY) | Dayforce, Inc. | DAY |
+| 21 | 87 | $25.81 | [Chart](https://www.tradingview.com/chart/?symbol=PNTG) | The Pennant Group, Inc. Common Stock | PNTG |
+| 24 | 87 | $11.90 | [Chart](https://www.tradingview.com/chart/?symbol=NVG) | Nuveen AMT-Free Municipal Credit Income Fund | NVG |
+| 24 | 87 | $21.99 | [Chart](https://www.tradingview.com/chart/?symbol=SGRY) | Surgery Partners, Inc. Common Stock | SGRY |
+| 26 | 86 | $15.87 | [Chart](https://www.tradingview.com/chart/?symbol=BNL) | Broadstone Net Lease, Inc. | BNL |
+| 16 | 85 | $110.21 | [Chart](https://www.tradingview.com/chart/?symbol=SHV) | iShares Short Treasury Bond ETF | SHV |
+| 21 | 85 | $13.28 | [Chart](https://www.tradingview.com/chart/?symbol=BSM) | Black Stone Minerals, L.P. | BSM |
+| 26 | 85 | $53.57 | [Chart](https://www.tradingview.com/chart/?symbol=CNMD) | CONMED Corporation | CNMD |
+| 28 | 85 | $103.61 | [Chart](https://www.tradingview.com/chart/?symbol=CROX) | Crocs, Inc. | CROX |
+| 19 | 84 | $224.19 | [Chart](https://www.tradingview.com/chart/?symbol=LOW) | Lowe's Companies Inc. | LOW |
+| 20 | 84 | $109.78 | [Chart](https://www.tradingview.com/chart/?symbol=FTAI) | FTAI Aviation Ltd. Common Stock | FTAI |
+| 21 | 84 | $35.55 | [Chart](https://www.tradingview.com/chart/?symbol=AMH) | AMERICAN HOMES 4 RENT | AMH |
+| 24 | 83 | $340.45 | [Chart](https://www.tradingview.com/chart/?symbol=EG) | Everest Group, Ltd. | EG |
+| 26 | 83 | $75.37 | [Chart](https://www.tradingview.com/chart/?symbol=IFF) | International Flavors & Fragrances Inc. | IFF |
+| 28 | 83 | $86.41 | [Chart](https://www.tradingview.com/chart/?symbol=SIGI) | Selective Insurance Group | SIGI |
+| 33 | 83 | $17.68 | [Chart](https://www.tradingview.com/chart/?symbol=SVOL) | Simplify Volatility Premium ETF | SVOL |
+| 22 | 82 | $113.22 | [Chart](https://www.tradingview.com/chart/?symbol=CPT) | Camden Property Trust | CPT |
+| 24 | 82 | $78.12 | [Chart](https://www.tradingview.com/chart/?symbol=AKAM) | Akamai Technologies Inc | AKAM |
+| 26 | 82 | $34.55 | [Chart](https://www.tradingview.com/chart/?symbol=PECO) | Phillips Edison & Company, Inc. Common Stock | PECO |
+| 25 | 81 | $19.75 | [Chart](https://www.tradingview.com/chart/?symbol=SPT) | Sprout Social, Inc Class A Common Stock | SPT |
+| 29 | 81 | $11.84 | [Chart](https://www.tradingview.com/chart/?symbol=SHC) | Sotera Health Company Common Stock | SHC |
+| 25 | 80 | $345.57 | [Chart](https://www.tradingview.com/chart/?symbol=SHW) | The Sherwin-Williams Company | SHW |
+| 25 | 80 | $100.25 | [Chart](https://www.tradingview.com/chart/?symbol=FMX) | FOMENTO ECONOMICO MEXICANO, S.A.B. DE C.V. | FMX |
+| 32 | 80 | $70.66 | [Chart](https://www.tradingview.com/chart/?symbol=AZN) | AstraZeneca PLC | AZN |
+| 25 | 79 | $77.11 | [Chart](https://www.tradingview.com/chart/?symbol=AWR) | American States Water Company | AWR |
+| 26 | 79 | $25.55 | [Chart](https://www.tradingview.com/chart/?symbol=BRX) | BRIXMOR PROPERTY GROUP INC. | BRX |
+| 30 | 79 | $25.45 | [Chart](https://www.tradingview.com/chart/?symbol=HPQ) | HP Inc. | HPQ |
+| 22 | 78 | $13.38 | [Chart](https://www.tradingview.com/chart/?symbol=PDO) | PIMCO Dynamic Income Opportunities Fund | PDO |
+| 31 | 78 | $14.02 | [Chart](https://www.tradingview.com/chart/?symbol=DOLE) | Dole plc | DOLE |
+| 31 | 78 | $29.56 | [Chart](https://www.tradingview.com/chart/?symbol=APPN) | Appian Corporation Class A Common Stock | APPN |
+| 23 | 77 | $26.60 | [Chart](https://www.tradingview.com/chart/?symbol=FCPT) | Four Corners Property Trust, Inc. | FCPT |
+| 28 | 75 | $56.76 | [Chart](https://www.tradingview.com/chart/?symbol=PRCT) | PROCEPT BioRobotics Corporation Common Stock | PRCT |
+| 38 | 72 | $22.34 | [Chart](https://www.tradingview.com/chart/?symbol=KRG) | Kite Realty Group Trust | KRG |
+| 32 | 71 | $41.40 | [Chart](https://www.tradingview.com/chart/?symbol=XLRE) | Real Estate Select Sector SPDR Fund | XLRE |
+| 36 | 71 | $559.90 | [Chart](https://www.tradingview.com/chart/?symbol=TYL) | Tyler Technologies, Inc. | TYL |
+| 31 | 70 | $238.44 | [Chart](https://www.tradingview.com/chart/?symbol=RNR) | RenaissanceRe Holdings Ltd. | RNR |
+| 37 | 66 | $19.19 | [Chart](https://www.tradingview.com/chart/?symbol=MSDL) | Morgan Stanley Direct Lending Fund | MSDL |
 
 ## **Methodology**
 
